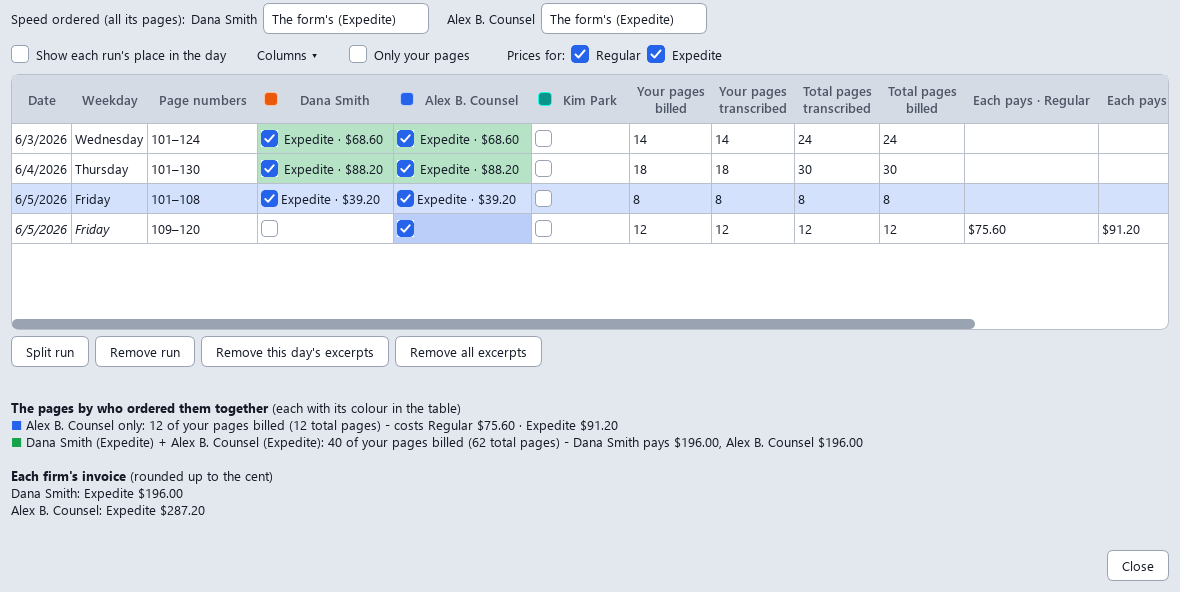
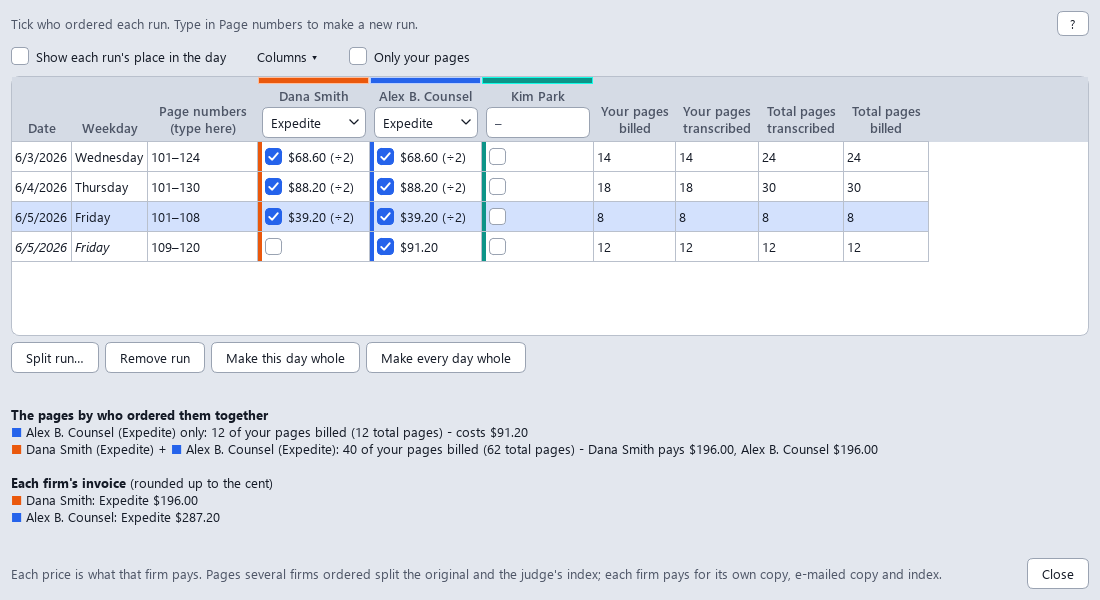
Site for 2.17.0: the clearer Who ordered which pages, the Math folder, the Min-U-Script cover

diff --git a/docs/index.html b/docs/index.html
@@ -111,7 +111,7 @@
     <img class="shot" src="invoice.png" alt="One invoice for two days of a case, listing the Regular and Expedite amounts">
     <div>
       <h2>Invoices from your transcripts</h2>
-      <p>Drop a transcript PDF and tick <b>Invoice</b>. The page count leaves out the word index printed after the transcript, and the line under it says so: "Transcript pages 378&ndash;460 &middot; excludes the 13 word-index pages after them". It is counted four ways (up to the index, by the line numbers, by the printed page numbers, and the index found from the end); if they disagree, or the index would be more than a quarter of the PDF, the field turns amber and tells you why. The page count and your rate sheet price the original, each party's copy and e-mailed copy, and for long transcripts an index for each party, plus one for the judge that the parties split. Whether there is an index is decided on the whole transcript, every reporter's pages (50 total pages or more to start with): your 45 pages of 83 total pages get one, charged on your 45. Typed fewer pages in <b>Est. number of pages</b> than the transcript has, and that would change it (40 of 83, say)? <b>Generate</b> asks you instead of deciding, and remembers your answer for that day; <b>Peripherals…</b> shows it and lets you change it. The speeds you tick under <b>Speeds offered</b> (Regular and Expedited to start with) are the ones the invoice offers, each with its turnaround and amount, and with how to pay you. The agreement form names one of them, at one rate per page: Expedited when you offer it, otherwise the slowest. Settings &rarr; Invoice changes that rule, and the <b>Speed</b> dropdown in <b>Who ordered</b> changes it for the job, every day of a trial. No transcript, just a caption page? Type the pages in <b>Est. number of pages</b> and the invoice bills them. Want your page count, your pages for each day and the charges spelled out for this job? Tick <b>Show granular detail</b>, and choose what it shows. <b>Peripherals…</b> drops the e-mailed copy, or says yes or no to the index, for this job only, and the <b>Invoice</b> card says why there is an index or not: "83 total pages, 50 or more". The notes on the invoice are yours to write, too: place them where you like and have them show only when they apply ("delivered once every party has paid" only when several parties ordered). Four firms sharing the pages can come to part of a cent a page ($6.6125): keep every fraction and round once at the end, as before, or set <b>Rounding</b> to <i>The price a page, to the cent</i> to bill $6.61 &times; 1,000 pages = $6,610.00, the way a firm checks it with a calculator. The prices in Who ordered which pages&hellip; are rounded the same way.</p>
+      <p>Drop a transcript PDF and tick <b>Invoice</b>. The page count leaves out the word index printed after the transcript, and the line under it says so: "Transcript pages 378&ndash;460 &middot; excludes the 13 word-index pages after them". A Min-U-Script cover before the title page isn't a page either: it isn't counted or billed (a typed cover page still is). It is counted four ways (up to the index, by the line numbers, by the printed page numbers, and the index found from the end); if they disagree, or the index would be more than a quarter of the PDF, the field turns amber and tells you why. The page count and your rate sheet price the original, each party's copy and e-mailed copy, and for long transcripts an index for each party, plus one for the judge that the parties split. Whether there is an index is decided on the whole transcript, every reporter's pages (50 total pages or more to start with): your 45 pages of 83 total pages get one, charged on your 45. Typed fewer pages in <b>Est. number of pages</b> than the transcript has, and that would change it (40 of 83, say)? <b>Generate</b> asks you instead of deciding, and remembers your answer for that day; <b>Peripherals…</b> shows it and lets you change it. The speeds you tick under <b>Speeds offered</b> (Regular and Expedited to start with) are the ones the invoice offers, each with its turnaround and amount, and with how to pay you. The agreement form names one of them, at one rate per page: Expedited when you offer it, otherwise the slowest. Settings &rarr; Invoice changes that rule, and the <b>Speed</b> dropdown in <b>Who ordered</b> changes it for the job, every day of a trial. No transcript, just a caption page? Type the pages in <b>Est. number of pages</b> and the invoice bills them. Want your page count, your pages for each day and the charges spelled out for this job? Tick <b>Show granular detail</b>, and choose what it shows. <b>Peripherals…</b> drops the e-mailed copy, or says yes or no to the index, for this job only, and the <b>Invoice</b> card says why there is an index or not: "83 total pages, 50 or more". The notes on the invoice are yours to write, too: place them where you like and have them show only when they apply ("delivered once every party has paid" only when several parties ordered). Four firms sharing the pages can come to part of a cent a page ($6.6125): keep every fraction and round once at the end, as before, or set <b>Rounding</b> to <i>The price a page, to the cent</i> to bill $6.61 &times; 1,000 pages = $6,610.00, the way a firm checks it with a calculator. The prices in Who ordered which pages&hellip; are rounded the same way.</p>
       <p>Shared the trial with another reporter? The invoice bills only <b>your</b> pages, the ones with your initials at the foot: 65 of a 150-page transcript, say. <b>Whose pages…</b> lets you tick <b>My pages</b>, another reporter's pages, or <b>The whole transcript</b>, and the app asks when it can't tell. Each other reporter you tick gets invoices for their own pages, in their name, with their address and payment details (Settings &rarr; Run sheet &rarr; Invoices for, or <b>Details…</b>), numbered apart from yours (DS-2026-0001), with file names that say whose they are. Sample shown uses made-up names.</p>
     </div>
   </div>
@@ -121,9 +121,9 @@
   <div class="wrap two">
     <div>
       <h2>Who ordered which pages: the whole case on one table</h2>
-      <p>One firm ordered the whole trial, another part of day 1, a third part of that and a stretch of day 2? <b>Who ordered which pages…</b> (in Who ordered, or <i>Some days or pages…</i> in a firm's row) lists every day of the case on that invoice in one table. The <b>?</b> beside the button shows the steps. Each row is a run of pages, typed in the transcript's own page numbers (141-170), and the rows around it make room. Tick the firms that ordered each run. <b>Split run</b> cuts a run in two, and <b>Remove run</b> (or the Delete key, or a right-click) gives its pages to the run next to it; <b>Remove this day's excerpts</b> and <b>Remove all excerpts</b> go back to whole days. Each run shows its date and weekday, and each set of firms ordering together has its own colour. As you type, it shows what each run costs each firm at every speed you offer (<b>Prices for:</b> hides a speed), what each group of firms ordering together pays, and each firm's invoice. Every count says whose pages it is: <i>43 of your pages billed (93 total pages)</i>. Columns show your pages billed and transcribed and the total pages, and <b>Only your pages</b> shows just the runs with pages of yours. A job of several days shows the page numbers printed on each transcript. Pages ordered together split the original and the judge's index, and every firm pays for its own copy, e-mailed copy and index. A run nobody ticks is billed to nobody. The window stays open beside the app and follows what you change there. Sample shown uses made-up names.</p>
+      <p>One firm ordered the whole trial, another part of day 1, a third part of that and a stretch of day 2? <b>Who ordered which pages…</b> (in Who ordered, or <i>Some days or pages…</i> in a firm's row) lists every day of the case on that invoice in one table. The <b>?</b> beside the button shows the steps. Each row is a run of pages, typed in the page numbers printed on the transcript (141-170), and the rows around it make room. Each firm has a column of its own colour, with the speed it's billed right under its name: click anywhere in a run's cell to tick that the firm ordered it, and the cell shows what that firm pays for the run (<i>$68.60 (&divide;2)</i> when two firms share it). <b>Split run&hellip;</b> asks where to cut a run in two, and <b>Remove run</b> (or the Delete key, or a right-click) gives its pages to the run next to it; <b>Make this day whole</b> and <b>Make every day whole</b> go back to whole days. Each run shows its date and weekday. Under the table: what each set of firms ordering together pays, and each firm's invoice. Every count says whose pages it is: <i>43 of your pages billed (93 total pages)</i>. Columns show your pages billed and transcribed and the total pages, and <b>Only your pages</b> shows just the runs with pages of yours. The page numbers are the ones printed on the transcripts, even after a Min-U-Script cover or where a number is printed twice as the reporter changes; where the numbers start again, a warning says so, and you type a run by its place in the day (<i>place 40-44</i>). Pages ordered together split the original and the judge's index, and every firm pays for its own copy, e-mailed copy and index. A run nobody ticks is billed to nobody. The window stays open beside the app and follows what you change there. Sample shown uses made-up names.</p>
     </div>
-    <img class="shot" src="excerpts.png" alt="The Who ordered which pages table: the days of a trial with their dates and weekdays, a row per run of pages with its page numbers, coloured by the firms ordering it, a box per firm with its speed and price, your pages and the total pages of each run, what each set of firms pays (40 of your pages billed, 62 total pages), and the Remove buttons">
+    <img class="shot" src="excerpts.png" alt="The Who ordered which pages table: the days of a trial with their dates and weekdays, a row per run of pages with its printed page numbers, a column per firm with its colour and speed at the top, a tick and what that firm pays in each cell ($68.60 ÷2 when shared), your pages and the total pages of each run, then what each set of firms pays (40 of your pages billed, 62 total pages) and each firm's invoice">
   </div>
 </section>
 
@@ -152,7 +152,7 @@
   <div class="wrap two">
     <div>
       <h2>Asked how you got that number?</h2>
-      <p>Your invoices can stay clean, with just the amounts, and the math is still at hand. <b>The math</b>, the preview's first tab, lays out each amount in tables: <b>By invoice</b>, a row for each charge with its pages, rate and cost, whether <i>each firm splits this cost</i> or <i>pays for its own</i>, and what this firm pays, stretch by stretch of pages ("50 pages ordered by 2 firms &hellip; &divide; 2"); or <b>Firms side by side</b>, a column for each firm. It remembers the one you chose, and the Invoice card has its own link to it before you generate. Firms ordered the same pages at different speeds? <b>Who pays what a page</b> shows, for each set of those pages, what each firm pays a page of every charge, just as its invoice bills it, and what they come to together. When several firms share the work, <b>All the firms together</b> checks that what they pay covers it. <b>Copy all</b> copies it as text, a line for each charge, for a reply. With previews off, it comes in a small window after saving: <b>OK</b>, <b>Copy all</b>, <b>Save as PDF…</b> (everyone's, or only what one firm owes) for the attorney who asked, or <b>Don't show this anymore</b> (<i>Show the math of each invoice</i> in Settings &rarr; Options brings it back). And it's kept: <b>Generate</b> saves the math as PDFs in the case's <i>Math</i> folder, one for each invoice (to send the firm that asks) and one for the whole job; the list under the math, or Settings &rarr; Invoice, says which, or none. Prefer it on the invoice itself? Settings &rarr; Invoice can also save a <b>detailed copy</b> of every invoice, the same invoice number with the full breakdown. Sample shown uses made-up names.</p>
+      <p>Your invoices can stay clean, with just the amounts, and the math is still at hand. <b>The math</b>, the preview's first tab, lays out each amount in tables: <b>By invoice</b>, a row for each charge with its pages, rate and cost, whether <i>each firm splits this cost</i> or <i>pays for its own</i>, and what this firm pays, stretch by stretch of pages ("50 pages ordered by 2 firms &hellip; &divide; 2"); or <b>Firms side by side</b>, a column for each firm. It remembers the one you chose, and the Invoice card has its own link to it before you generate. Firms ordered the same pages at different speeds? <b>Who pays what a page</b> shows, for each set of those pages, what each firm pays a page of every charge, just as its invoice bills it, and what they come to together. When several firms share the work, <b>All the firms together</b> checks that what they pay covers it. <b>Copy all</b> copies it as text, a line for each charge, for a reply. With previews off, it comes in a small window after saving: <b>OK</b>, <b>Copy all</b>, <b>Save as PDF…</b> (everyone's, or only what one firm owes) for the attorney who asked, or <b>Don't show this anymore</b> (<i>Show the math of each invoice</i> in Settings &rarr; Options brings it back). And it's kept: <b>Generate</b> saves the math as PDFs in a <i>Math</i> folder of its own, in the case's folder or wherever your invoices go, one for each invoice (to send the firm that asks) and one for the whole job; the list under the math, or Settings &rarr; Invoice, says which, or none, and the box at the end says so when the math wasn't saved. Prefer it on the invoice itself? Settings &rarr; Invoice can also save a <b>detailed copy</b> of every invoice, the same invoice number with the full breakdown. Sample shown uses made-up names.</p>
     </div>
     <img class="shot" src="math.png" alt="The math in tables, By invoice: the original and the judge's index split stretch by stretch (40 pages ordered by this firm alone, 50 pages ordered by 2 firms), the copy, e-mailed copy and index each firm pays for its own, and what this firm pays at each speed">
   </div>
@@ -206,7 +206,7 @@
       <div class="card"><h3>Remembers you</h3><p>Your name, address, phone, e-mail, rate sheet, copies and signature are set once in Settings. The speeds you offer and what you tick in the Outputs box stay ticked.</p></div>
       <div class="card"><h3>Fix it afterwards</h3><p>The PDFs stay fillable: every value the app typed in, invoice amounts included, can be corrected in a PDF viewer. When it's final, File &rarr; Lock finished PDFs saves a locked copy.</p></div>
       <div class="card"><h3>Fits your screen</h3><p>Works with Windows' display scaling, and Ctrl + and Ctrl &minus; (or Ctrl and the mouse wheel) make everything bigger or smaller. The Outputs box is one row, so the form keeps the room. Fold any card to one line that sums it up (the View menu does them all), and drag the divider; the app remembers.</p></div>
-      <div class="card"><h3>Your folders</h3><p>Each case gets a folder of its own, named by its index number, days and caption (234567-2026 10-13,14,15-2026 Jones v USA Hauling) or as you like, next to your documents or in the folder you choose, with a folder inside for each kind of file: Minute Agreements, MOFR, Invoices, Math and Trial Runs. A day you make later renames it to add its day, and Records and the run sheet follow. Its name keeps only what every computer and cloud drive takes. Tick a box in Settings to keep a copy of the transcripts and e-mails each job was made from in an Inputs folder there too. Or give agreements, invoices, MOFRs and run sheets a folder each.</p></div>
+      <div class="card"><h3>Your folders</h3><p>Each case gets a folder of its own, named by its index number, days and caption (234567-2026 10-13,14,15-2026 Jones v USA Hauling) or as you like, next to your documents or in the folder you choose, with a folder inside for each kind of file: Minute Agreements, MOFR, Invoices, Math and Trial Runs. A day you make later renames it to add its day, and Records and the run sheet follow. Its name keeps only what every computer and cloud drive takes. Tick a box in Settings to keep a copy of the transcripts and e-mails each job was made from in an Inputs folder there too. Or give agreements, invoices, MOFRs and run sheets a folder each (the math then goes in a Math folder inside the invoices').</p></div>
       <div class="card"><h3>Your rate sheets</h3><p>Rates live in small spreadsheets (CSV) you can edit in Excel: private, city, whatever you charge. A speed missing a price (Original, Copy, Email or Index) is pointed out, and so is a faster speed that costs less than a slower one (&ldquo;Daily's Index, $1.00, is less than Expedite's, $1.10&rdquo;). The column headings don't have to be exact.</p></div>
       <div class="card"><h3>Optional local AI</h3><p>If you use Ollama, an AI helper can read messy photos and e-mails. It is only used when Ollama is installed, and it stays on your machine. Everything it says is checked against the document, and it ticks who ordered only from e-mails and pasted text. Choose the smaller, faster model or the larger, more accurate one in Settings.</p></div>
       <div class="card"><h3>A new computer?</h3><p>File &rarr; Export settings saves your details, options and rate sheets as one file; Import settings reads it on the other computer. Giving it to a colleague? Leave your personal details out with one click. A short welcome asks a new user the few things the forms need.</p></div>
